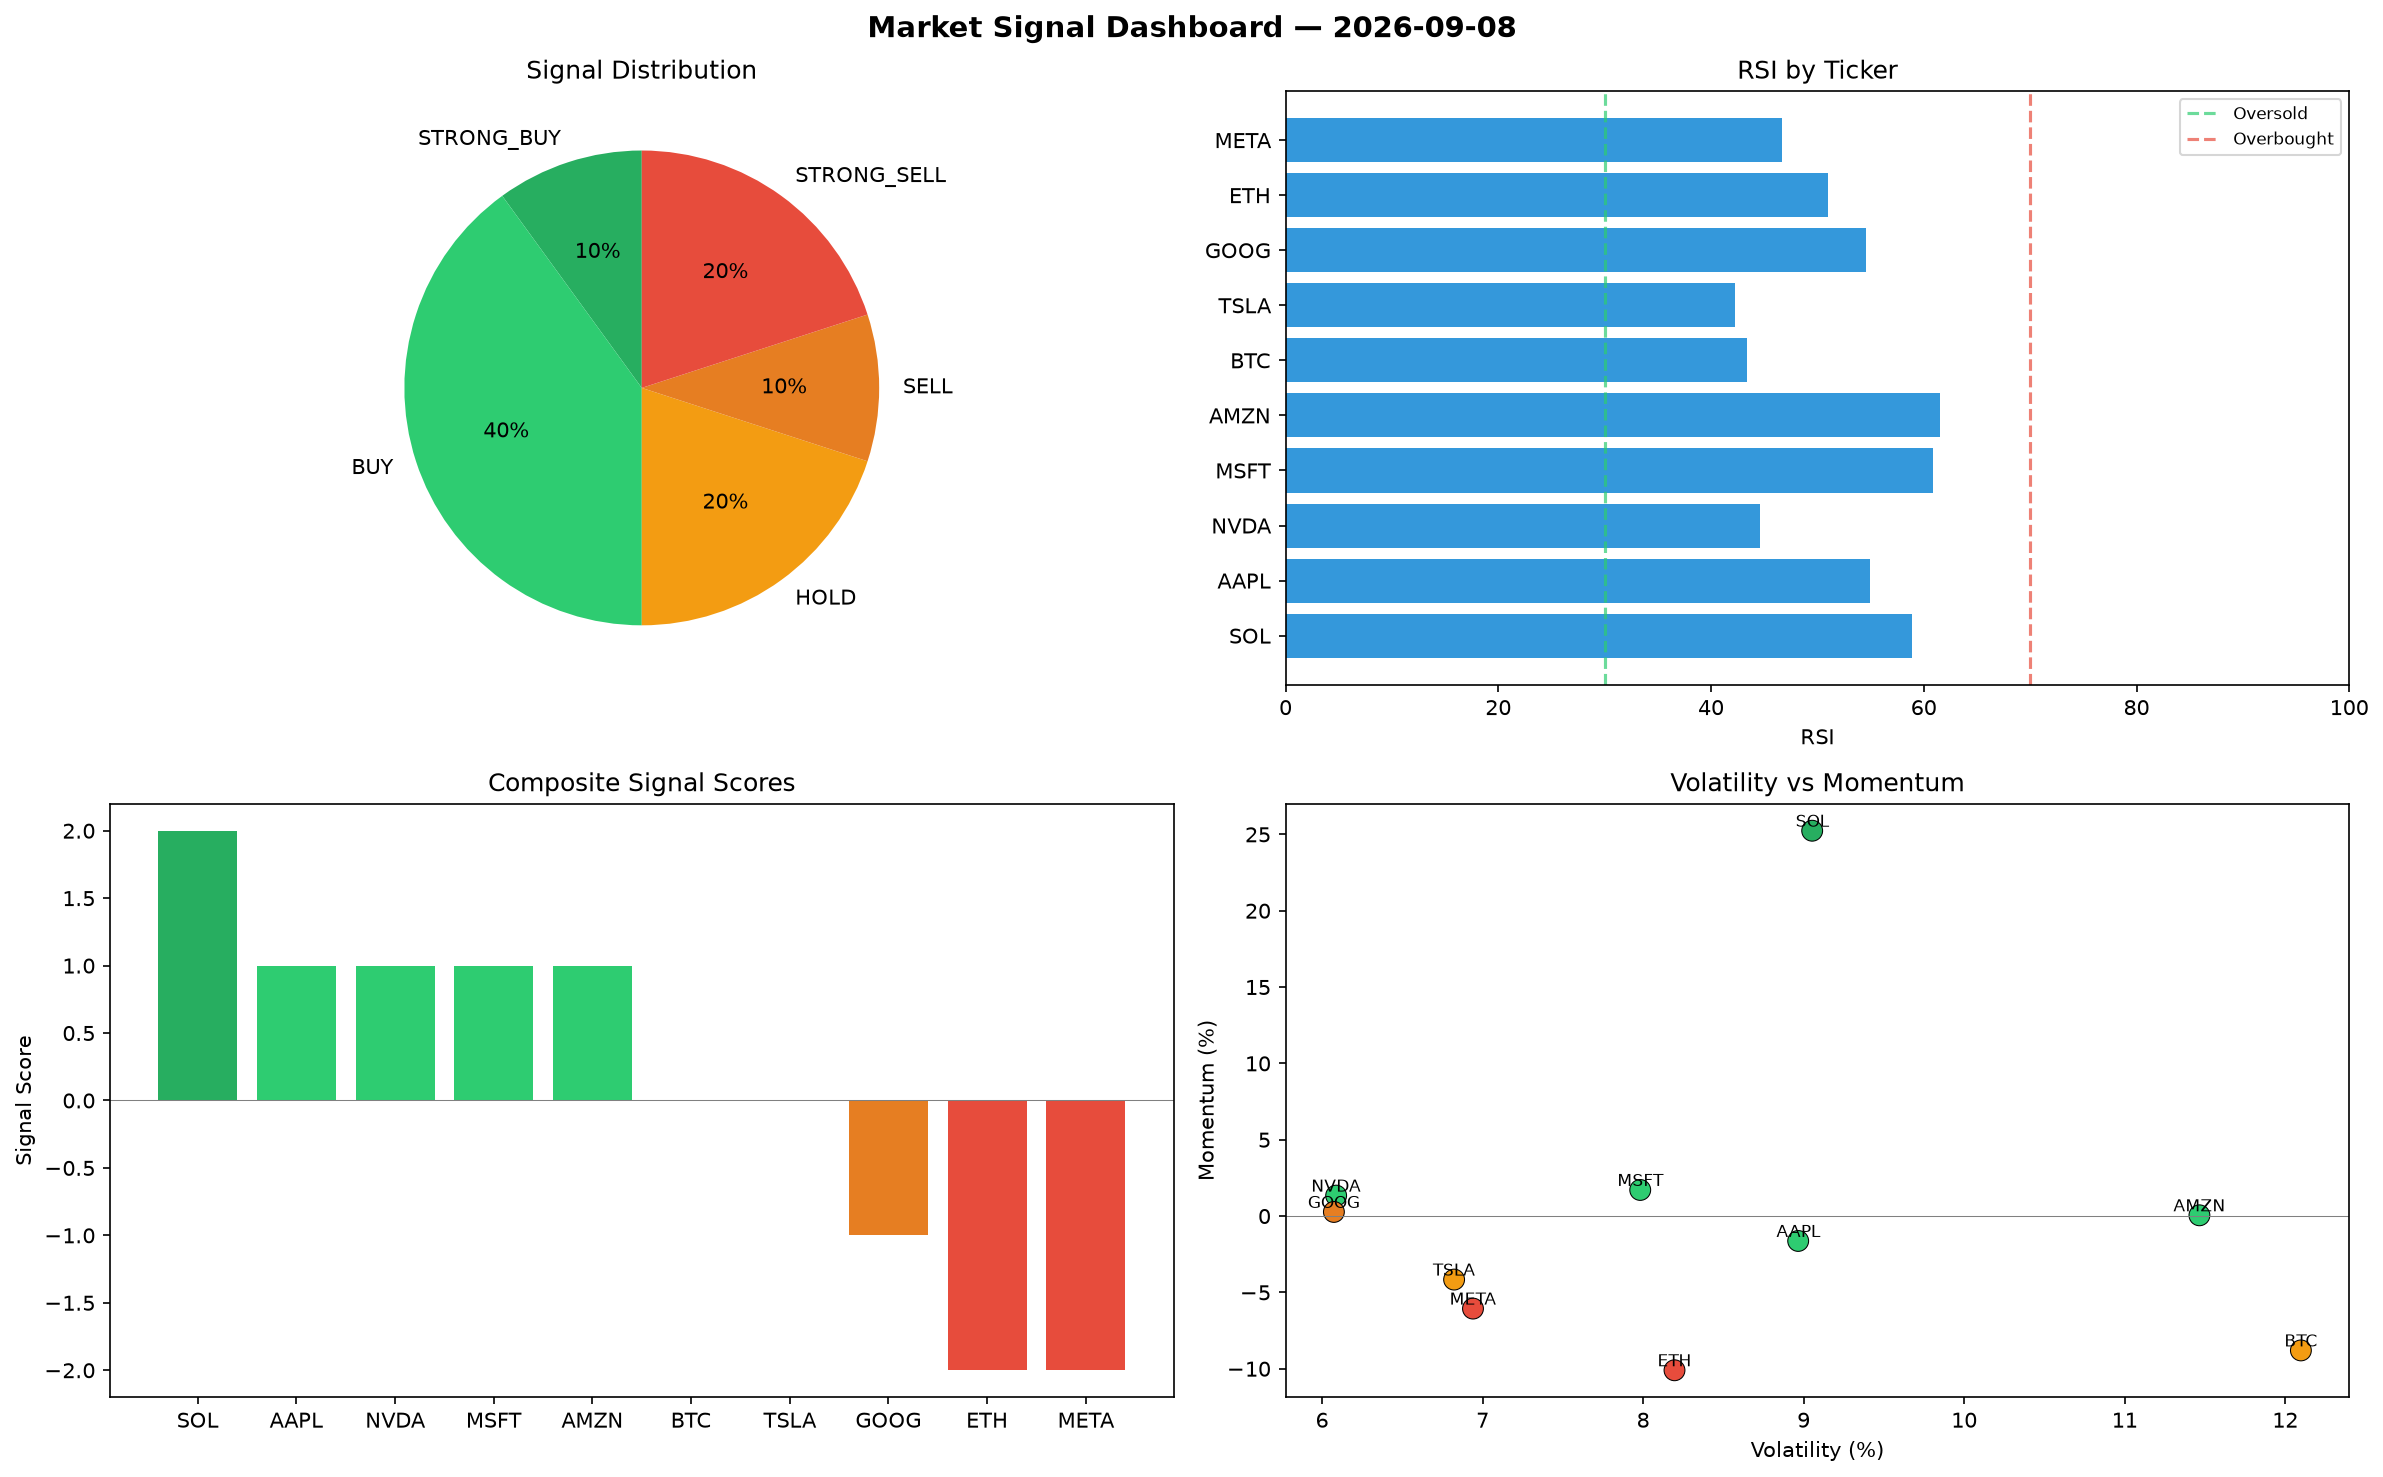
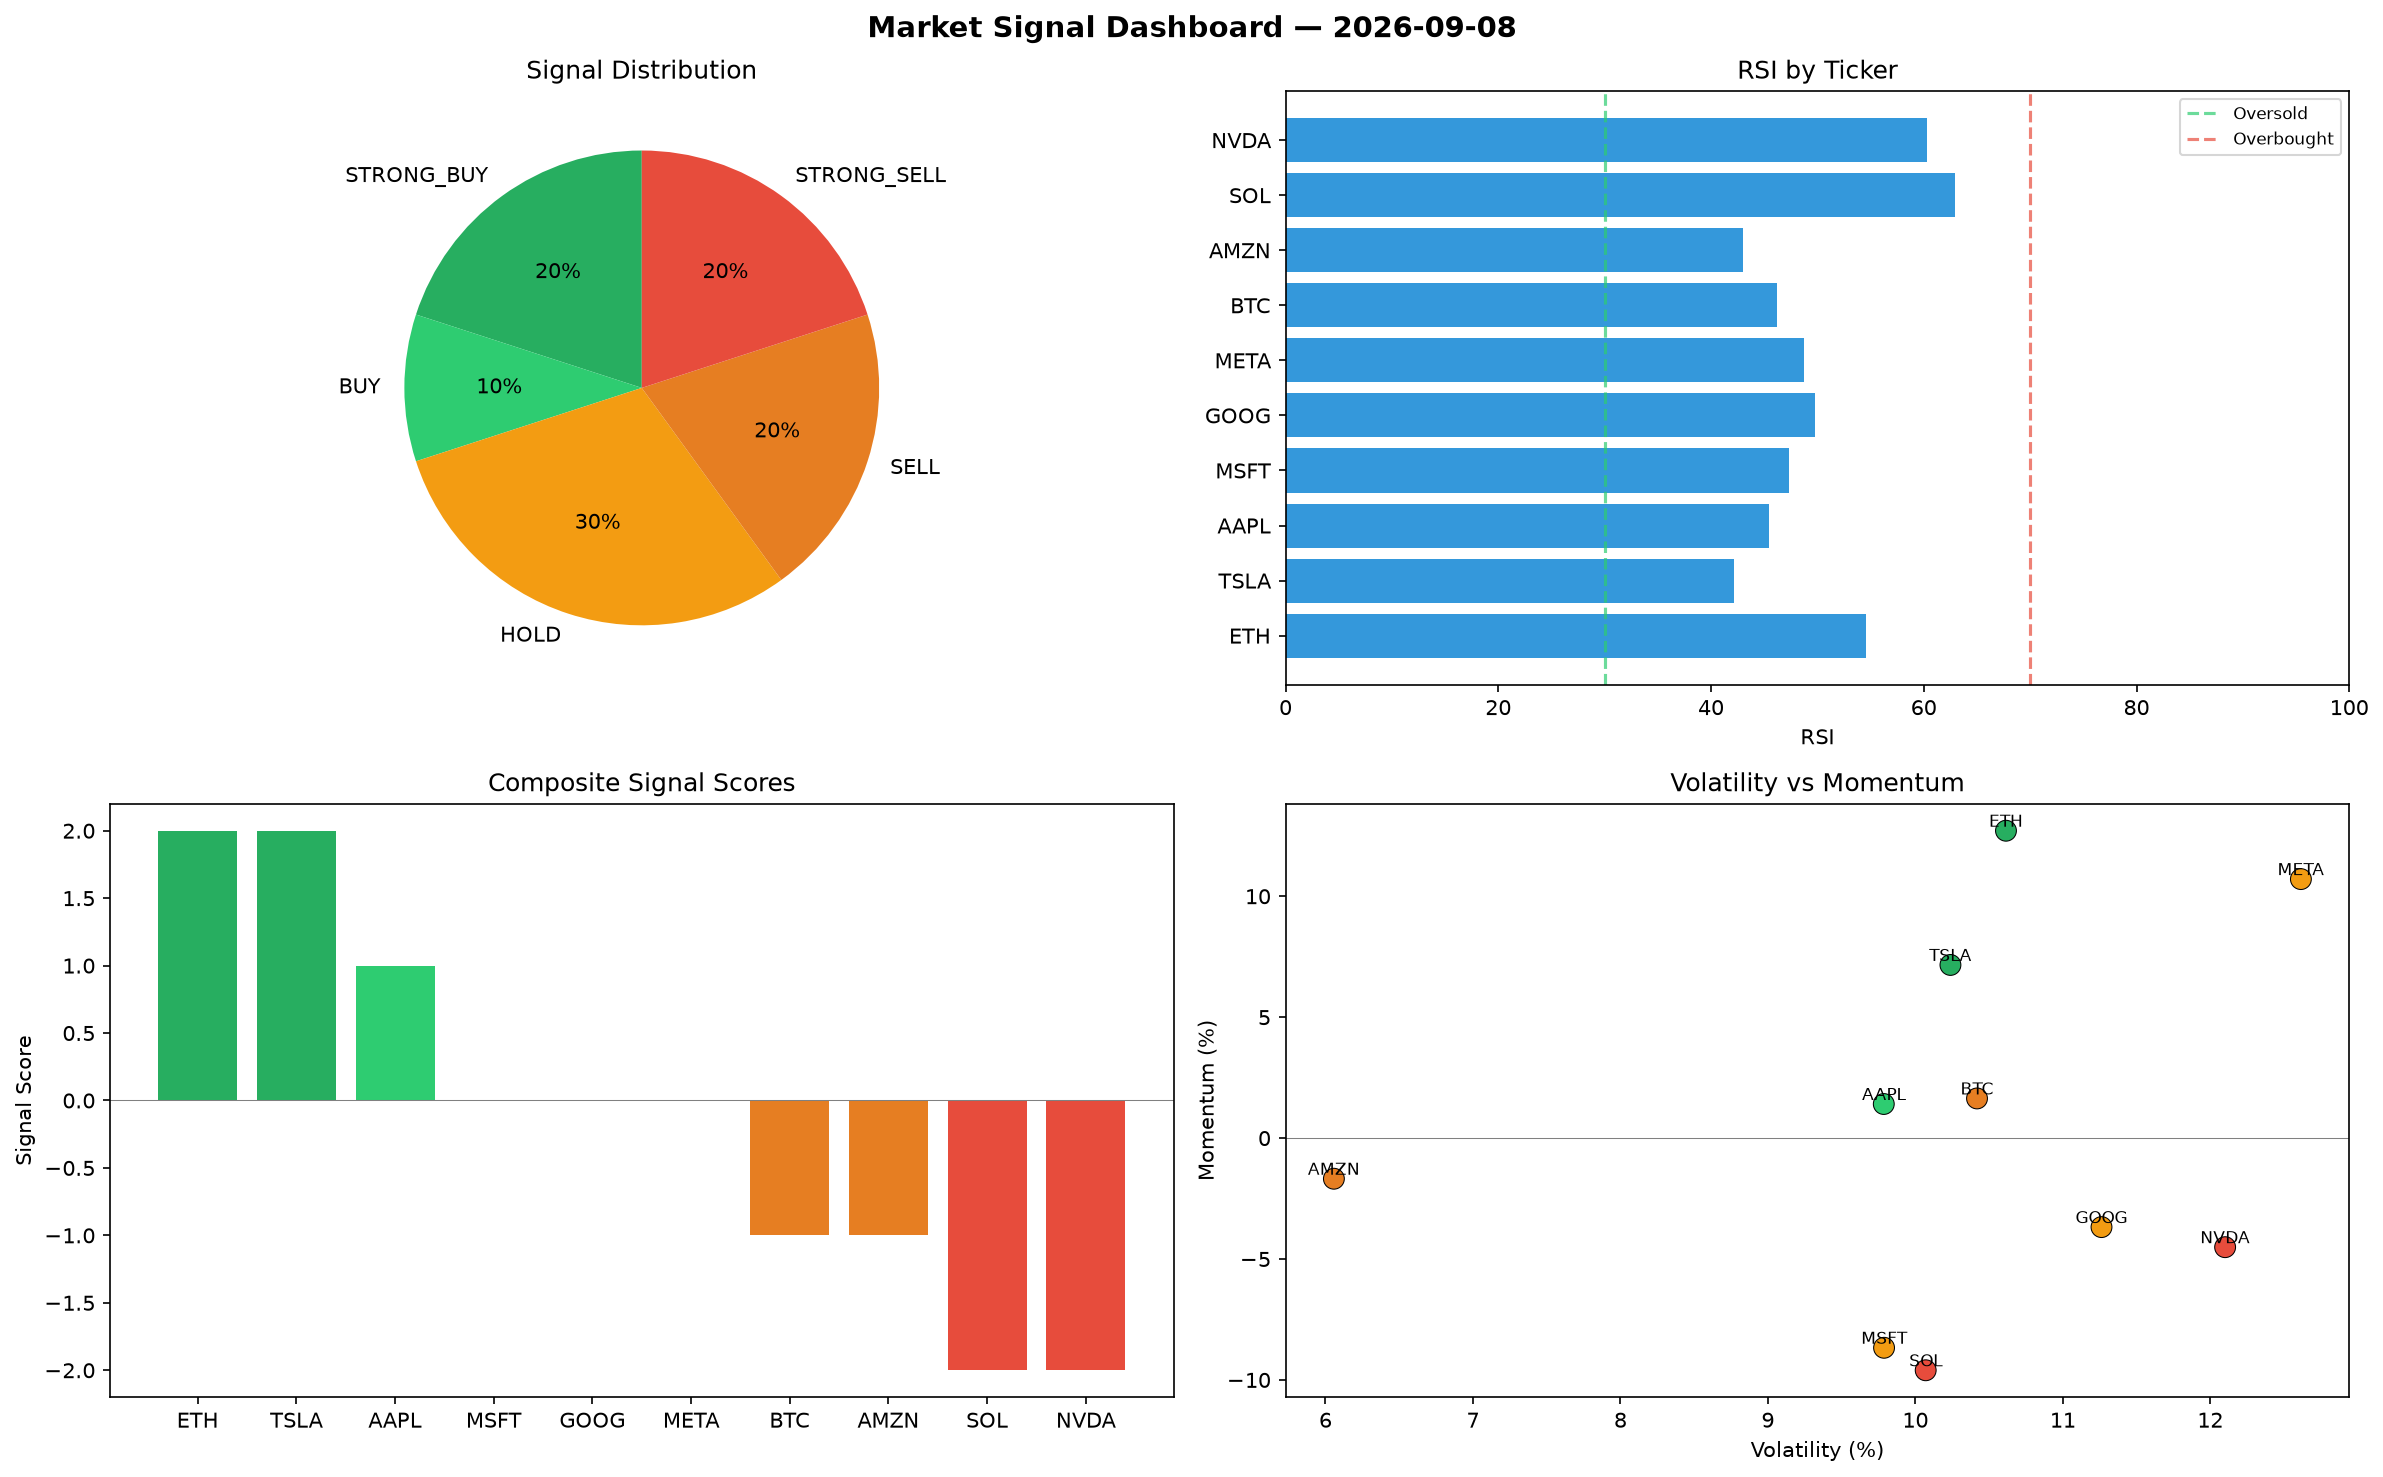
automated-bots: market signals 2026-09-08T18:00

diff --git a/logs/2026-09-08.md b/logs/2026-09-08.md
@@ -1,6 +1,6 @@
 # Market Signal Report — 2026-09-08
 
-**Run ID:** `b35297cef9` | **Buy:** 5 | **Sell:** 3 | **Hold:** 2
+**Run ID:** `bce1f0a3c8` | **Buy:** 3 | **Sell:** 4 | **Hold:** 3
 
 ![Dashboard](2026-09-08_dashboard.png)
 
@@ -8,28 +8,28 @@
 
 | Ticker | Price | Signal | Score | RSI | Momentum | Confidence |
 |--------|-------|--------|-------|-----|----------|------------|
-| SOL | $4280.45 | **STRONG_BUY** | 2 | 58.9 | 0.2524 | 0.5 |
-| AAPL | $632.35 | **BUY** | 1 | 54.98 | -0.0163 | 0.25 |
-| NVDA | $1574.2 | **BUY** | 1 | 44.6 | 0.0134 | 0.25 |
-| MSFT | $3258.56 | **BUY** | 1 | 60.87 | 0.0171 | 0.25 |
-| AMZN | $3779.85 | **BUY** | 1 | 61.56 | 0.0005 | 0.25 |
-| BTC | $3573.49 | **HOLD** | 0 | 43.4 | -0.088 | 0.0 |
-| TSLA | $3533.04 | **HOLD** | 0 | 42.22 | -0.0416 | 0.0 |
-| GOOG | $4297.4 | **SELL** | -1 | 54.57 | 0.0027 | 0.25 |
-| ETH | $3054.78 | **STRONG_SELL** | -2 | 50.99 | -0.101 | 0.5 |
-| META | $235.55 | **STRONG_SELL** | -2 | 46.63 | -0.0606 | 0.5 |
+| ETH | $2602.64 | **STRONG_BUY** | 2 | 54.55 | 0.1271 | 0.5 |
+| TSLA | $1944.32 | **STRONG_BUY** | 2 | 42.15 | 0.0716 | 0.5 |
+| AAPL | $3874.7 | **BUY** | 1 | 45.42 | 0.0141 | 0.25 |
+| MSFT | $245.26 | **HOLD** | 0 | 47.34 | -0.0867 | 0.0 |
+| GOOG | $929.87 | **HOLD** | 0 | 49.74 | -0.0368 | 0.0 |
+| META | $3594.95 | **HOLD** | 0 | 48.75 | 0.1071 | 0.0 |
+| BTC | $4446.3 | **SELL** | -1 | 46.23 | 0.0164 | 0.25 |
+| AMZN | $1861.71 | **SELL** | -1 | 43.02 | -0.0168 | 0.25 |
+| SOL | $3578.13 | **STRONG_SELL** | -2 | 62.96 | -0.096 | 0.5 |
+| NVDA | $2399.89 | **STRONG_SELL** | -2 | 60.33 | -0.0451 | 0.5 |
 
 ## Delta vs Yesterday
 
 | Ticker | Today | Yesterday | Price Change | Signal Changed |
 |--------|-------|-----------|-------------|----------------|
-| SOL | STRONG_BUY | SELL | 📈 285.01% | ⚠ YES |
-| AAPL | BUY | HOLD | 📉 -84.77% | ⚠ YES |
-| NVDA | BUY | HOLD | 📉 -45.97% | ⚠ YES |
-| MSFT | BUY | STRONG_SELL | 📈 39.61% | ⚠ YES |
-| AMZN | BUY | STRONG_BUY | 📉 -10.02% | ⚠ YES |
-| BTC | HOLD | STRONG_BUY | 📈 16.88% | ⚠ YES |
-| TSLA | HOLD | STRONG_BUY | 📉 -21.07% | ⚠ YES |
-| GOOG | SELL | STRONG_BUY | 📈 13.61% | ⚠ YES |
-| ETH | STRONG_SELL | HOLD | 📉 -40.31% | ⚠ YES |
-| META | STRONG_SELL | STRONG_SELL | 📉 -95.33% | — |
+| ETH | STRONG_BUY | HOLD | 📉 -49.15% | ⚠ YES |
+| TSLA | STRONG_BUY | STRONG_BUY | 📉 -56.56% | — |
+| AAPL | BUY | HOLD | 📉 -6.71% | ⚠ YES |
+| MSFT | HOLD | STRONG_SELL | 📉 -89.49% | ⚠ YES |
+| GOOG | HOLD | STRONG_BUY | 📉 -75.42% | ⚠ YES |
+| META | HOLD | STRONG_SELL | 📉 -28.75% | ⚠ YES |
+| BTC | SELL | STRONG_BUY | 📈 45.42% | ⚠ YES |
+| AMZN | SELL | STRONG_BUY | 📉 -55.68% | ⚠ YES |
+| SOL | STRONG_SELL | SELL | 📈 221.84% | ⚠ YES |
+| NVDA | STRONG_SELL | HOLD | 📉 -17.63% | ⚠ YES |
